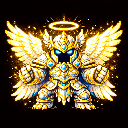
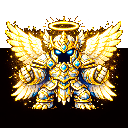
Battle visuals: centered-platform backgrounds (21) + per-bg enemy height + boss scale-up + landscape quiz fit + Celestial Guardian halo fix

Changed region(s): [[0.0, 0.0, 1.0, 0.375]]

diff --git a/ui-overhaul.js b/ui-overhaul.js
@@ -106,6 +106,13 @@
         for (var y = 0; y < h; y++) { push(0, y); push(w - 1, y); }
         while (stack.length) { var p = stack.pop(); var px0 = p % w, py0 = (p - px0) / w; push(px0 + 1, py0); push(px0 - 1, py0); push(px0, py0 + 1); push(px0, py0 - 1); }
         ctx.putImageData(d, 0, 0);
+        // Trim the transparent BOTTOM padding so the sprite's feet sit on the scene's ground line.
+        // object-position:bottom anchors the IMAGE edge, not the monster's feet — without this the
+        // monster floats by however much empty space the sprite has below it (~24% for the slime),
+        // and the ground shadow detaches. Bottom-only keeps width/size unchanged. Per-sprite.
+        var vb = h;
+        for (var yy = h - 1; yy >= 0; yy--) { var hit = false; for (var xx = 0; xx < w; xx++) { if (px[(yy * w + xx) * 4 + 3] > 16) { hit = true; break; } } if (hit) { vb = yy + 1; break; } }
+        if (vb > 0 && vb < h) { var cv2 = document.createElement('canvas'); cv2.width = w; cv2.height = vb; cv2.getContext('2d').drawImage(cv, 0, 0); cv = cv2; }
         monCache[sprite] = cv.toDataURL('image/png');
       } catch (e) { monCache[sprite] = 'assets/monsters/' + sprite + '.png'; }
       lastSig = null; // force re-render with the transparent sprite
@@ -218,11 +225,13 @@
   function activate(name, isBattle) {
     if (!root.classList.contains('active')) root.classList.add('active');
     root.classList.toggle('battle', !!isBattle);
+    if (!isBattle) clearBattleBg();
     try { document.body.classList.add('qok-overlay'); } catch (e) {} // hide the Phaser canvas under us (no old-UI flash)
     if (curScreen !== name) { curScreen = name; lastSig = null; }
   }
   function deactivate() {
     if (root && root.classList.contains('active')) { root.classList.remove('active', 'battle'); stage.innerHTML = ''; }
+    clearBattleBg();
     try { document.body.classList.remove('qok-overlay'); } catch (e) {} // show the canvas again (field/dungeon, or a non-overlaid Phaser scene)
     curScreen = null; lastSig = null;
   }
@@ -682,6 +691,49 @@
     _hitShown = _lastHit.seq;
     try { spawnFx(_lastHit); } catch (e) {}
   }
+  // ---- battle background (generated biome/boss art behind the battle) ----
+  var MAP_BG = {
+    sunkenCellar: 'coast', whisperingWoodsCave: 'forest', coastalReef: 'coast', mistyGrotto: 'cave_misty', crystalCave: 'cave_misty',
+    ironMine: 'mountains', stormNest: 'storm_peak', hauntedForest: 'haunted_wood', frozenLake: 'frozen', shadowCave: 'cave_misty',
+    oasisDepths: 'desert', desertTomb: 'tomb_ruins', banditHideout: 'canyon', scorchedRuins: 'desert',
+    emberMines: 'magma', magmaTunnels: 'magma', obsidianCavern: 'obsidian', volcanicForge: 'magma',
+    demonBarracks: 'demon_castle', voidRift: 'void', demonCastle: 'demon_castle',
+    stormreachIsles: 'storm_peak', frostfallPeaks: 'frozen', sunkenTempleIsle: 'tomb_ruins', twilightRealm: 'void'
+  };
+  var BOSS_BG = { stormSentinel: 'boss_storm_sentinel', frostMonarch: 'boss_frost_monarch', swordWraith: 'boss_sword_wraith', celestialGuardian: 'boss_celestial_guardian', demonKing: 'boss_demon_king' };
+  // Per-bg enemy-feet Y (% of the scene height). Most platforms sit at the default 64%, but a few
+  // boss daises are drawn higher in the frame, so the enemy must rise to land ON them. Tuned visually.
+  var FEET_Y = { boss_storm_sentinel: 58, boss_demon_king: 60 };
+  // Every boss (not just the 5 arena bosses) renders larger than a regular monster. A monster is a
+  // boss if aiPattern==='boss' OR its id is in the engine's mid/late/final-boss tier lists (getEnemyTier).
+  var BOSS_IDS = { demonKing:1, flameTitan:1, swordWraith:1, celestialGuardian:1, stormSentinel:1, frostMonarch:1,
+    giantToad:1, serpent:1, giantCrab:1, kraken:1, dragon:1, sandGolem:1, iceWyrm:1, lavaWyrm:1, stormHarpy:1, banditLord:1, lich:1 };
+  function isBossMonster(m) { return !!(m && (m.aiPattern === 'boss' || BOSS_IDS[m.id])); }
+  function overworldBg(y) { y = y || 0; if (y < 100) return 'demon_castle'; if (y < 170) return 'magma'; if (y < 260) return 'mountains'; if (y < 320) return 'forest'; return 'grass_plains'; }
+  function battleBgKey(bs) {
+    try {
+      var m = bs && bs.monster;
+      if (m && m.id && BOSS_BG[m.id]) return BOSS_BG[m.id]; // 5 legendary/final bosses get their own arena
+      var pos = (pstate() && pstate().position) || {};
+      if (pos.mapId && pos.mapId !== 'overworld') return MAP_BG[pos.mapId] || 'grass_plains';
+      return overworldBg(pos.y); // overworld: biome by latitude band
+    } catch (e) { return 'grass_plains'; }
+  }
+  var _curBg = null;
+  function setBattleBg(bs) {
+    if (!root) return;
+    var key = battleBgKey(bs);
+    if (key === _curBg) return;
+    _curBg = key;
+    // Full-bleed bg on #qok-ui (border-box → covers the safe-area padding too, so the scene
+    // continues behind the HUD — no black panel). position:center bottom keeps the FOREGROUND
+    // anchored low; the monster is pinned to the HUD-top (.bstage flex:1, bottom-aligned), which
+    // lands on that foreground. Scrim darkens the bottom for HUD legibility, lifts in the middle
+    // so the monster reads clearly. Set here so it survives paint().
+    root.style.backgroundImage = "linear-gradient(180deg, rgba(8,9,20,.30) 0%, rgba(8,9,20,.08) 34%, rgba(8,9,20,.10) 58%, rgba(8,9,20,.38) 100%), url('assets/backgrounds/bg-" + key + ".webp')";
+    root.style.setProperty('--qok-feety', (FEET_Y[key] || 64) + '%'); // raise the enemy onto bgs whose platform sits higher
+  }
+  function clearBattleBg() { if (root && _curBg !== null) { root.style.backgroundImage = ''; _curBg = null; } }
   function renderBattle() {
     var bs = getScene('BattleScene'), p = player(), st = pstate();
     if (!bs || !p || !st) return;
@@ -693,10 +745,11 @@
     var eR = Math.max(0, Math.min(1, emax ? ehp / emax : 0));
     var ename = bs.monster ? Z(bs.monster.nameKey) : '';
     var sprite = (bs.monster && bs.monster.spriteKey) ? bs.monster.spriteKey : '';
+    var bossCls = isBossMonster(bs.monster) ? ' boss' : ''; // bosses render larger than regular monsters
     var enemyCard = '<div class="enemy-card"><div style="flex:1;"><div style="font-weight:800;color:#ffd9a6;font-size:14px;">' + esc(ename) + '</div>' +
       '<div class="hp dark mt6"><i style="width:' + (eR * 100) + '%;background:linear-gradient(180deg,#ef6a60,#bb3a32);"></i></div></div></div>';
     var msrc = getMonsterSrc(sprite);
-    var monImg = msrc ? '<img class="bmon" src="' + msrc + '" alt="" />' : (sprite ? '<div class="bmon" style="display:flex;"></div>' : '');
+    var monImg = msrc ? '<img class="bmon' + bossCls + '" src="' + msrc + '" alt="" />' : (sprite ? '<div class="bmon' + bossCls + '" style="display:flex;"></div>' : '');
 
     var content = '', dyn = '', showPlayerBar = true;
     if (isQuiz) {
@@ -768,6 +821,7 @@
     var hud = tapAdvance + '<div class="bstage">' + enemyCard + monImg + '</div><div class="hudwrap">' + content + (showPlayerBar ? battlePlayerBar(p, st) : '') + '</div>';
     var sig = 'battle|' + phase + '|' + sprite + '|e' + ehp + '/' + emax + '|h' + st.hp + '/' + p.totalMaxHp + '|' + loc + '|' + dyn;
     activate('battle', true);
+    setBattleBg(bs); // biome/boss background behind the battle (cover-fit, full-bleed)
     paint(hud, sig);
     if (isQuiz) updateQuizTimer(bs);
     runBattleFx(bs); // spawn damage number / hit-flash / crit / shake (after paint, into the FX layer)

diff --git a/ui-overhaul.css b/ui-overhaul.css
@@ -144,12 +144,19 @@
    letterboxed fixed scene, so a transparent overlay would expose its UI in the
    middle band). We render the monster ourselves from its PNG sprite. */
 #qok-ui.battle .col{ max-width:600px; }
-/* fixed-height enemy stage so the monster stays put when the quiz card appears below */
-#qok-ui .bstage{ flex:none; height:54%; position:relative; min-height:0; display:flex; align-items:flex-end; justify-content:center; padding-bottom:6%; }
+/* The battle "scene" area: FIXED height (= the quiz-phase height) so the monster is LOCKED in one
+   spot and does NOT jump when the tall quiz card replaces the short command bar. The HUD below is
+   bottom-anchored (margin-top:auto), so the gap between the scene and the HUD absorbs the per-phase
+   height difference while the monster stays put. Bottom-aligned + sprite-trimmed → feet on the bg
+   foreground, just above where the quiz card sits. Transparent; the full-bleed bg lives on #qok-ui. */
+#qok-ui .bstage{ flex:none; height:var(--qok-feety,64%); position:relative; min-height:0; display:flex; align-items:flex-end; justify-content:center; padding-bottom:0; }
 /* monster sprite — the shadow is a drop-shadow of the sprite's ALPHA shape, so it hugs the
    VISIBLE bottom of every enemy (grounded OR floating); a ground ellipse detaches on sprites
    with transparent bottom padding. object-position:bottom keeps the sprite anchored low. */
 #qok-ui .bmon{ image-rendering:pixelated; position:relative; z-index:1; width:68%; max-width:300px; max-height:84%; object-fit:contain; object-position:center bottom; filter:drop-shadow(0 3px 1px rgba(0,0,0,.75)) drop-shadow(0 7px 7px rgba(0,0,0,.45)); }
+/* Bosses render larger than regular monsters (every boss, not just the 5 arena bosses). More
+   specific than the responsive .bmon overrides below, so it applies on phone + tablet + landscape. */
+#qok-ui .bmon.boss{ width:86%; max-width:380px; max-height:95%; }
 #qok-ui .hudwrap{ flex:none; margin-top:auto; padding:14px 14px calc(16px + env(safe-area-inset-bottom,0px)); }
 #qok-ui .actiongrid{ display:grid; grid-template-columns:1fr 1fr; gap:10px; }
 #qok-ui .pbar{ display:flex; align-items:center; gap:9px; background:#0d0f22e0; border:2px solid var(--gold-line); border-radius:13px; padding:9px 11px; margin-top:10px; }
@@ -185,6 +192,7 @@
   #qok-ui.battle .col{ max-width:760px; }
   #qok-ui .bmon{ max-width:74%; max-height:74%; }
   #qok-ui .hudwrap, #qok-ui .heal-wrap{ zoom:1.4; width:calc(100% / 1.4); margin:0 auto; }
+  #qok-ui.battle .hudwrap{ margin-top:auto; } /* keep the battle HUD pinned to the bottom */
   #qok-ui .enemy-card{ zoom:1.32; }
 }
 /* TABLET LANDSCAPE + WEB — 2-pane, widened to fill the width */
@@ -199,6 +207,11 @@
   #qok-ui.battle .col{ max-width:900px; }
   #qok-ui .bmon{ max-width:360px; max-height:74%; }
   #qok-ui .hudwrap, #qok-ui .heal-wrap{ zoom:1.3; width:calc(100% / 1.3); margin:0 auto; }
+  /* LANDSCAPE battle: the short height can't fit a bottom-pinned quiz card. Raise the enemy onto the
+     (cover-cropped, ~centered) platform and move the quiz card UP right below it (top-anchored, not
+     pinned to the bottom) so the whole card fits. */
+  #qok-ui.battle .bstage{ height:52%; }
+  #qok-ui.battle .hudwrap{ margin-top:0; zoom:1; width:100%; } /* compact (un-zoomed) card so it fits the short landscape height */
   #qok-ui .enemy-card{ zoom:1.25; }
 }
 
@@ -235,3 +248,11 @@
   color:#f3ead2; font-family:var(--font); font-weight:800; font-size:15px; line-height:1.35; text-align:center;
   box-shadow:0 8px 22px rgba(0,0,0,.5); animation:qok-toast 1.9s ease forwards; }
 @keyframes qok-toast{ 0%{opacity:0; transform:translate(-50%,12px);} 9%{opacity:1; transform:translate(-50%,0);} 82%{opacity:1; transform:translate(-50%,0);} 100%{opacity:0; transform:translate(-50%,-8px);} }
+
+/* battle background — full-bleed on #qok-ui itself (border-box covers the safe-area padding too,
+   so the scene continues behind the HUD with NO black panel). cover + position:center bottom keeps
+   the foreground anchored low; the monster is pinned to the HUD-top and lands on it. Image+scrim
+   set in setBattleBg(); same layer as the transparent content (no cross-layer compositing issue). */
+#qok-ui.battle{ background-size:cover; background-position:center bottom; background-repeat:no-repeat; background-origin:border-box; background-clip:border-box; }
+/* In battle, drop .screen's decorative radial backdrop so the bg shows through. */
+#qok-ui.battle .screen{ background:none; }
